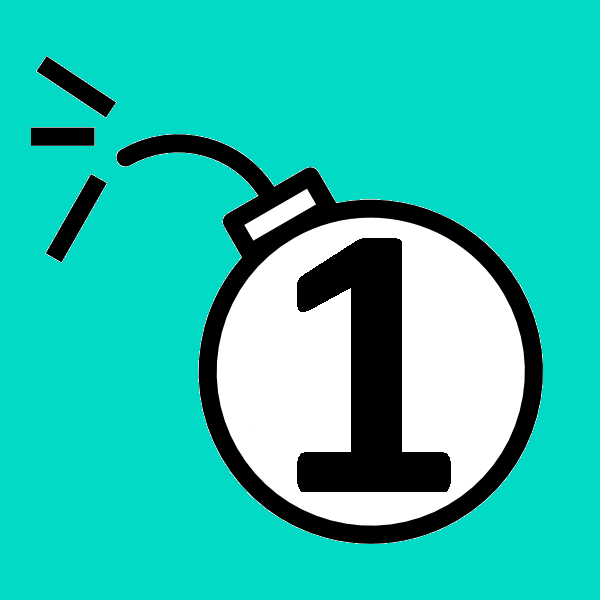
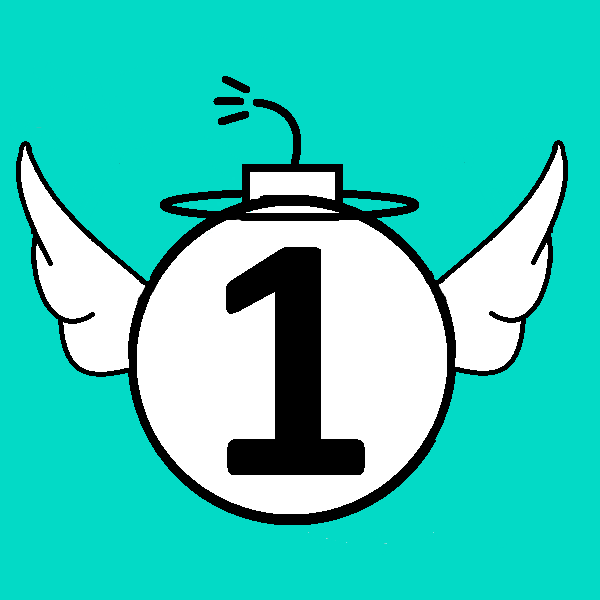
add evil bomb to front-end

diff --git a/TetrisClient/userInterface/MultiplayerWindow.xaml b/TetrisClient/userInterface/MultiplayerWindow.xaml
@@ -474,5 +474,16 @@
 
         </Button>
 
+        <Button 
+            x:Name="BombEvilButton"
+            IsEnabled="False"
+            Grid.Column="3" HorizontalAlignment="Left" Margin="229,189,0,0" VerticalAlignment="Top" Height="61" Width="61">
+            <Image x:Name="BombEvilButtonImage" Source="/Resources/bomb1_evil_disabled.png"/>
+            <Button.Effect>
+                <DropShadowEffect />
+            </Button.Effect>
+
+        </Button>
+
     </Grid>
 </Window>
